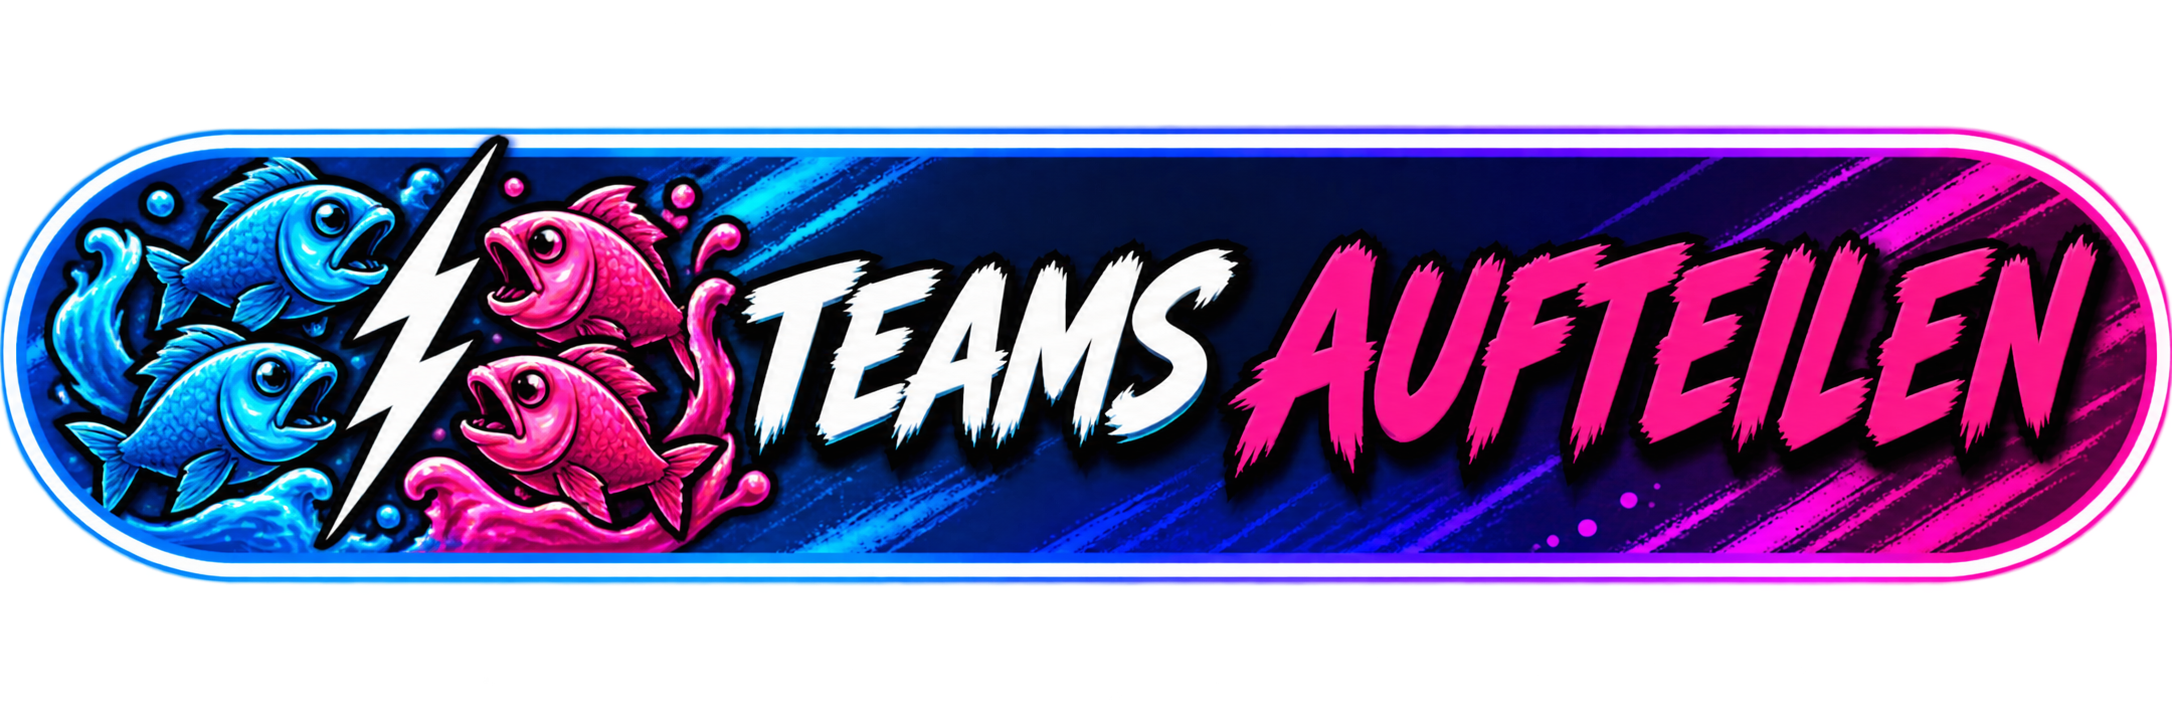
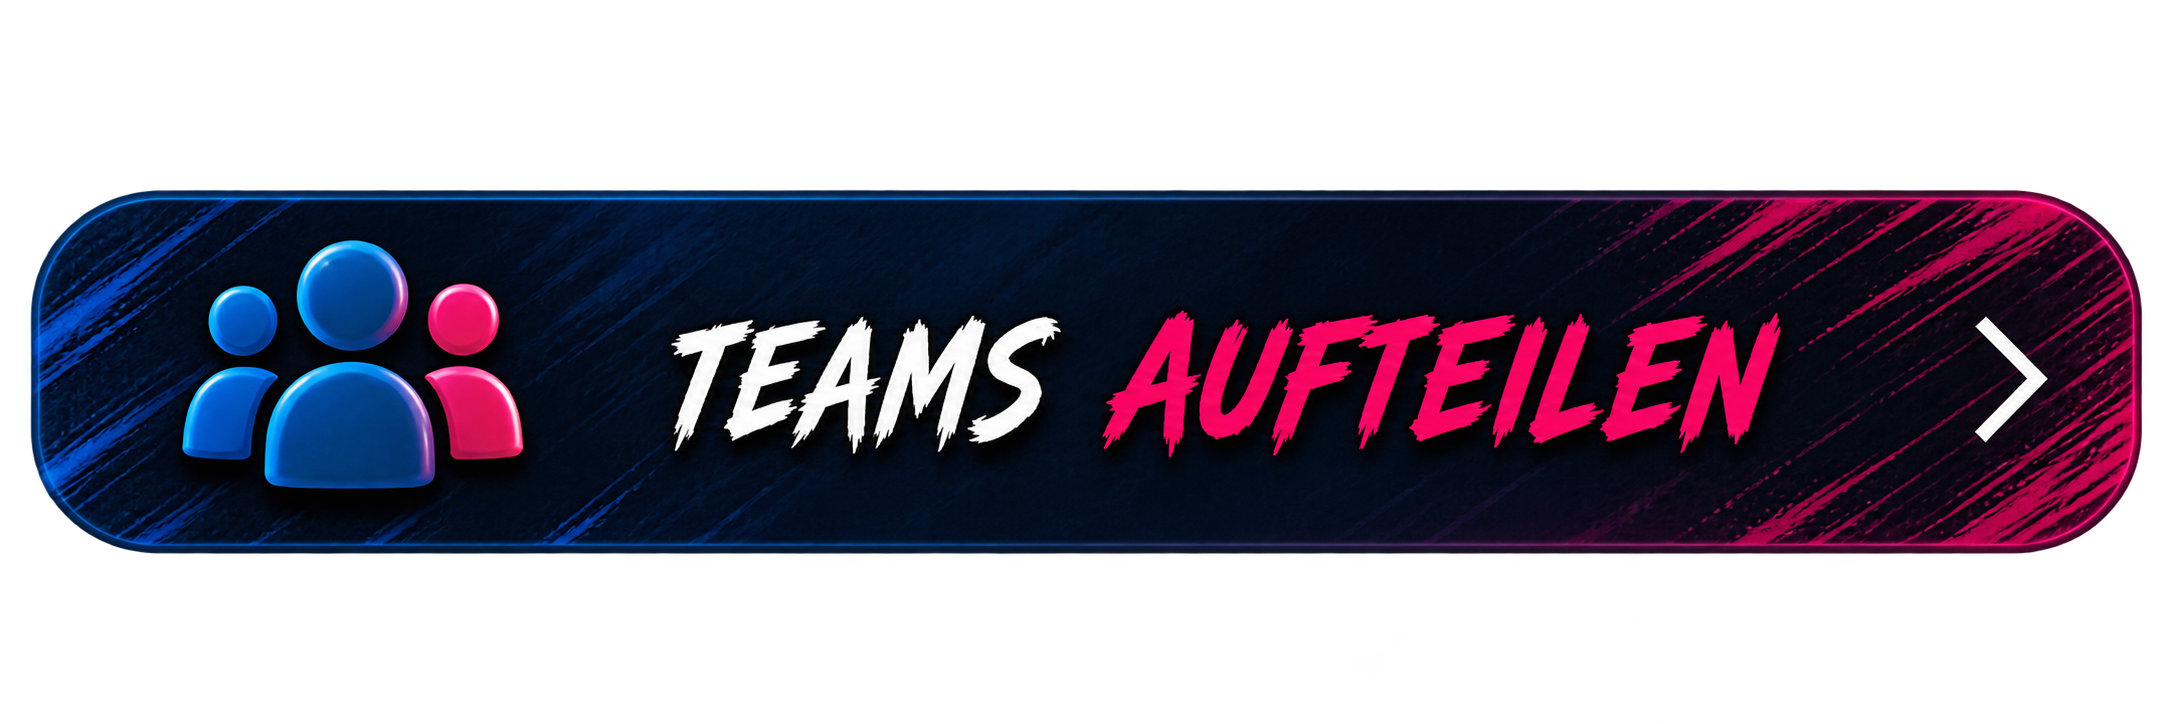
Main Menu changes

diff --git a/style.css b/style.css
@@ -95,7 +95,8 @@ button:focus-visible {
 }
 
 .menu-screen {
-  place-items: end center;
+  display: block;
+  padding: 0;
   background: var(--ink);
 }
 
@@ -104,10 +105,9 @@ button:focus-visible {
   z-index: 0;
   inset: 0;
   width: 100%;
-  height: calc(100% + 60px);
+  height: 100%;
   object-fit: cover;
-  object-position: center top;
-  transform: translateY(-60px);
+  object-position: center center;
   pointer-events: none;
   user-select: none;
   -webkit-user-drag: none;
@@ -116,15 +116,9 @@ button:focus-visible {
 .menu-crest {
   position: absolute;
   z-index: 1;
-  top: max(
-    env(safe-area-inset-top),
-    calc(
-      max(calc(env(safe-area-inset-top) + 28px), clamp(70px, 9dvh, 82px))
-      - clamp(28px, 3.52dvh, 30px)
-    )
-  );
+  top: max(calc(env(safe-area-inset-top) + 8px), clamp(40px, 5.8dvh, 58px));
   left: 50%;
-  width: clamp(116px, 31vw, 132px);
+  width: clamp(94px, 27vw, 122px);
   height: auto;
   transform: translateX(-50%);
   pointer-events: none;
@@ -190,21 +184,16 @@ h2 {
 
 .menu-actions {
   display: grid;
-  gap: 0;
-}
-
-.menu-actions button + button {
-  margin-top: -14px;
+  gap: clamp(2px, 0.45dvh, 5px);
 }
 
 .menu-card {
-  width: min(60vw, 220px);
-  transform: translateY(
-    min(
-      25px,
-      max(14px, calc(max(28px, env(safe-area-inset-bottom)) - 14px))
-    )
-  );
+  position: absolute;
+  z-index: 2;
+  top: clamp(320px, 51.5dvh, 470px);
+  left: 50%;
+  width: clamp(184px, 54.5vw, 234px);
+  transform: translateX(-50%);
 }
 
 .menu-actions button {
@@ -217,9 +206,7 @@ h2 {
   background: transparent;
   box-shadow: none;
   line-height: 0;
-  transition:
-    transform 110ms ease-out,
-    filter 110ms ease-out;
+  transition: transform 110ms ease-out;
 }
 
 .menu-actions img {
@@ -228,12 +215,104 @@ h2 {
   height: auto;
   object-fit: contain;
   pointer-events: none;
+  user-select: none;
+  -webkit-user-drag: none;
 }
 
 .menu-actions button:active {
-  filter: brightness(0.92);
   box-shadow: none;
-  transform: scale(0.97);
+  transform: scale(0.975);
+}
+
+.active-tournament-card {
+  width: min(88vw, 360px);
+  margin-top: clamp(8px, 1.4dvh, 14px);
+  margin-left: 50%;
+  padding: 12px 14px;
+  align-items: center;
+  justify-content: space-between;
+  border: 1px solid rgb(255 255 255 / 20%);
+  border-radius: 14px;
+  background: rgb(3 7 22 / 86%);
+  box-shadow: 0 8px 24px rgb(0 0 0 / 30%);
+  text-align: left;
+  transform: translateX(-50%);
+  backdrop-filter: blur(8px);
+  -webkit-backdrop-filter: blur(8px);
+}
+
+.active-tournament-card:not([hidden]) {
+  display: flex;
+}
+
+.active-tournament-card p,
+.active-tournament-card strong,
+.active-tournament-card span {
+  display: block;
+  margin: 0;
+}
+
+.active-tournament-status {
+  color: #ff4c9c;
+  font-size: 0.65rem;
+  font-weight: 900;
+  letter-spacing: 0.09em;
+  text-transform: uppercase;
+}
+
+.active-tournament-name {
+  margin-top: 2px !important;
+  font-size: 0.9rem;
+}
+
+.active-tournament-phase {
+  margin-top: 2px !important;
+  color: var(--muted);
+  font-size: 0.72rem;
+}
+
+.active-tournament-arrow {
+  color: #fff;
+  font-size: 1.7rem;
+  line-height: 1;
+}
+
+.menu-secondary-actions {
+  position: absolute;
+  z-index: 2;
+  right: max(20px, env(safe-area-inset-right));
+  bottom: max(calc(env(safe-area-inset-bottom) + 4px), 12px);
+  left: max(20px, env(safe-area-inset-left));
+  display: flex;
+  width: min(58vw, 238px);
+  margin-inline: auto;
+  align-items: center;
+  justify-content: space-between;
+}
+
+.menu-secondary-actions button {
+  width: clamp(58px, 17vw, 74px);
+  min-height: 0;
+  padding: 0;
+  border: 0;
+  border-radius: 50%;
+  background: transparent;
+  line-height: 0;
+  transition: transform 110ms ease-out;
+}
+
+.menu-secondary-actions img {
+  display: block;
+  width: 100%;
+  height: auto;
+  object-fit: contain;
+  pointer-events: none;
+  user-select: none;
+  -webkit-user-drag: none;
+}
+
+.menu-secondary-actions button:active {
+  transform: scale(0.96);
 }
 
 .primary-button,
@@ -1407,7 +1486,18 @@ h2 {
 }
 
 @media (max-height: 700px) {
-  .menu-card { width: min(56vw, 200px); }
+  .menu-card {
+    top: clamp(292px, 48.5dvh, 340px);
+    width: clamp(168px, 50vw, 202px);
+  }
+
+  .menu-crest {
+    width: clamp(82px, 23vw, 104px);
+  }
+
+  .menu-secondary-actions button {
+    width: clamp(50px, 14vw, 60px);
+  }
 }
 
 @media (max-height: 620px) {

diff --git a/index.html b/index.html
@@ -13,15 +13,15 @@
     <title>Fischteich Angel</title>
     <link rel="manifest" href="./manifest.webmanifest">
     <link rel="apple-touch-icon" sizes="180x180" href="./assets/apple-touch-icon.png">
-    <link rel="stylesheet" href="./style.css?v=39">
-    <script src="./script.js?v=22" defer></script>
+    <link rel="stylesheet" href="./style.css?v=40">
+    <script src="./script.js?v=23" defer></script>
   </head>
   <body>
     <div id="app">
       <section class="screen menu-screen is-active" id="menu-screen" aria-label="Hauptmenü">
         <img
           class="menu-background"
-          src="./assets/menu-background.png?v=3"
+          src="./assets/menu-background.png?v=4"
           alt=""
           width="853"
           height="1844"
@@ -30,26 +30,47 @@
         >
         <img
           class="menu-crest"
-          src="./assets/turbolachs-wappen.png?v=1"
+          src="./assets/turbolachs-wappen.png?v=2"
           alt=""
           width="1236"
           height="1273"
           draggable="false"
           aria-hidden="true"
         >
-        <div class="menu-card">
+        <main class="menu-card">
           <div class="menu-actions">
             <button id="start-two-teams" type="button" aria-label="Teams aufteilen">
-              <img src="./assets/button-teams-aufteilen.png?v=1" alt="" width="2172" height="724" draggable="false">
+              <img src="./assets/button-teams-aufteilen.png?v=2" alt="" width="2172" height="724" draggable="false">
             </button>
             <button id="start-roulette" type="button" aria-label="Fisch Roulette">
-              <img src="./assets/button-fisch-roulette.png?v=1" alt="" width="2172" height="724" draggable="false">
+              <img src="./assets/button-fisch-roulette.png?v=2" alt="" width="2032" height="774" draggable="false">
             </button>
-            <button id="open-team-choice" type="button" aria-label="Mehr Teams">
-              <img src="./assets/button-mehr-teams.png?v=2" alt="" width="2172" height="724" draggable="false">
+            <button id="create-tournament" type="button" aria-label="Turnier erstellen">
+              <img src="./assets/button-turnier-erstellen.png?v=1" alt="" width="2172" height="724" draggable="false">
+            </button>
+            <button id="open-dice-game" type="button" aria-label="3er Trottl – Würfelspiel">
+              <img src="./assets/button-würfelspiel.png?v=1" alt="" width="2172" height="724" draggable="false">
             </button>
           </div>
-        </div>
+
+          <aside class="active-tournament-card" id="active-tournament" aria-live="polite" hidden>
+            <div>
+              <p class="active-tournament-status"><span aria-hidden="true">●</span> Turnier läuft</p>
+              <strong class="active-tournament-name">Sommer Dart Turnier</strong>
+              <span class="active-tournament-phase">Gruppenphase</span>
+            </div>
+            <span class="active-tournament-arrow" aria-hidden="true">›</span>
+          </aside>
+        </main>
+
+        <nav class="menu-secondary-actions" aria-label="Weitere Bereiche">
+          <button id="open-settings" type="button" aria-label="Einstellungen">
+            <img src="./assets/button-einstellungen.png?v=1" alt="" width="1254" height="1254" draggable="false">
+          </button>
+          <button id="open-past-tournaments" type="button" aria-label="Vergangene Turniere">
+            <img src="./assets/button-vergangene-tuniere.png?v=1" alt="" width="1270" height="1239" draggable="false">
+          </button>
+        </nav>
       </section>
 
       <section class="screen choice-screen" id="team-choice-screen" aria-labelledby="team-choice-title" hidden>

diff --git a/script.js b/script.js
@@ -1065,9 +1065,6 @@ document.querySelector("#start-two-teams").addEventListener("click", () => start
 document.querySelector("#start-roulette").addEventListener("click", openRoulette);
 rouletteSpinButton.addEventListener("click", startRoulette);
 rouletteSpeedButton.addEventListener("click", cycleRouletteSpeed);
-document.querySelector("#open-team-choice").addEventListener("click", () => {
-  showScreen(teamChoiceScreen);
-});
 
 for (const button of document.querySelectorAll("[data-team-count]")) {
   button.addEventListener("click", () => startGame(Number(button.dataset.teamCount)));
